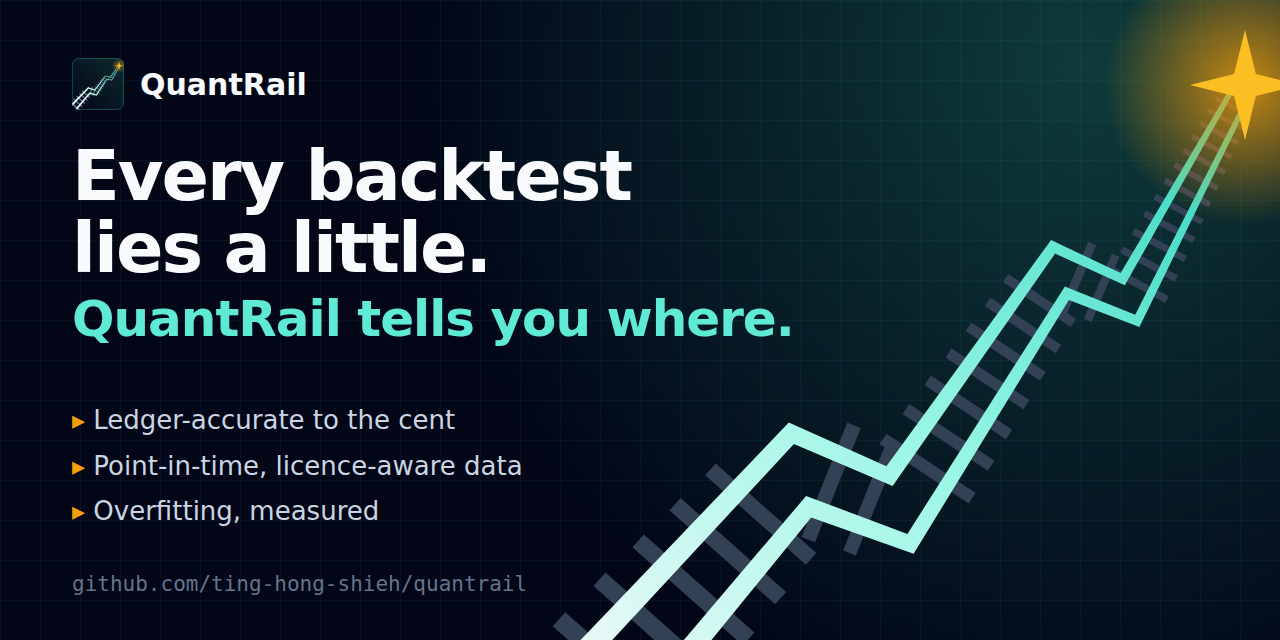
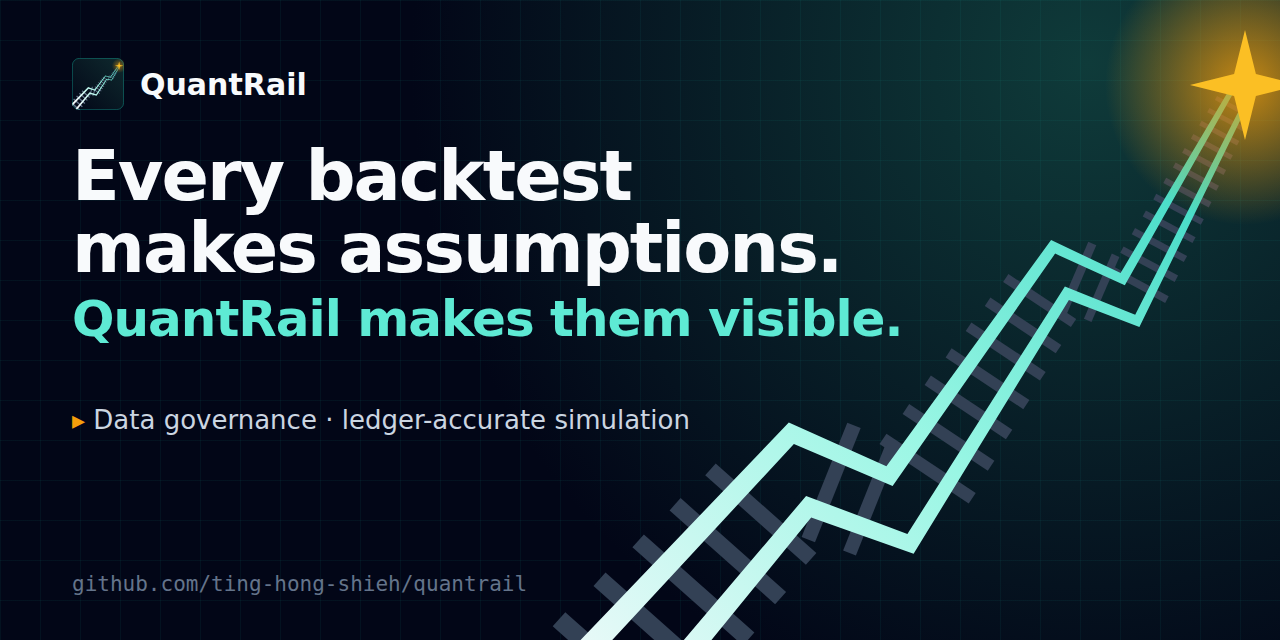
docs: calibrate claims to current implementation

diff --git a/assets/social-preview.html b/assets/social-preview.html
@@ -1,0 +1,65 @@
+<!doctype html><html><head><meta charset="utf-8"><style>
+html,body{margin:0}
+body{width:1280px;height:640px;overflow:hidden;position:relative;font-family:Inter,Helvetica,Arial,sans-serif;
+  background:radial-gradient(circle at 85% 10%,#0F3B3A 0,#020617 55%);color:#F8FAFC}
+.grid{position:absolute;inset:0;background-image:linear-gradient(#14B8A611 1px,transparent 1px),
+  linear-gradient(90deg,#14B8A611 1px,transparent 1px);background-size:40px 40px}
+.track{position:absolute;inset:0;width:1280px;height:640px}
+.brand{position:absolute;left:72px;top:58px;display:flex;align-items:center;gap:16px;font-size:30px;font-weight:800}
+.brand img{width:52px}
+h1{position:absolute;left:72px;top:140px;margin:0;font-size:70px;line-height:1.03;letter-spacing:-2px;font-weight:900}
+h1 span{display:block;margin-top:10px;color:#5EEAD4;font-size:50px;letter-spacing:-1px}
+ul{position:absolute;left:72px;top:398px;margin:0;padding:0;list-style:none;font-size:26px;line-height:1.75;color:#CBD5E1}
+li::before{content:"▸ ";color:#F59E0B}
+.url{position:absolute;left:72px;bottom:44px;font-size:21px;color:#64748B;font-family:'DejaVu Sans Mono',monospace}
+</style></head><body>
+<div class="grid"></div>
+<svg class="track" viewBox="0 0 128 64" preserveAspectRatio="xMidYMid slice"
+     xmlns="http://www.w3.org/2000/svg">
+  <defs>
+    <linearGradient id="steel" x1="56" y1="74" x2="124" y2="8" gradientUnits="userSpaceOnUse">
+      <stop offset="0" stop-color="#F8FAFC"/><stop offset="0.5" stop-color="#99F6E4"/>
+      <stop offset="1" stop-color="#2DD4BF"/></linearGradient>
+    <radialGradient id="glow" cx="124.5" cy="8.5" r="14" gradientUnits="userSpaceOnUse">
+      <stop offset="0" stop-color="#F59E0B" stop-opacity="0.8"/><stop offset="1" stop-color="#F59E0B" stop-opacity="0"/>
+    </radialGradient>
+  </defs>
+  <g fill="#334155"><path d="M64.99 76.65 L52.31 65.38 L51.00 66.87 L63.67 78.13 Z"/>
+<path d="M68.63 71.98 L56.53 61.22 L55.27 62.63 L67.37 73.40 Z"/>
+<path d="M72.11 67.52 L60.55 57.24 L59.35 58.59 L70.91 68.87 Z"/>
+<path d="M75.44 63.26 L64.39 53.44 L63.24 54.73 L74.29 64.55 Z"/>
+<path d="M78.61 59.19 L68.06 49.81 L66.96 51.04 L77.51 60.42 Z"/>
+<path d="M81.64 55.30 L71.57 46.34 L70.52 47.52 L80.59 56.48 Z"/>
+<path d="M81.50 54.23 L86.07 42.80 L84.73 42.27 L80.16 53.69 Z"/>
+<path d="M85.59 55.56 L89.95 44.65 L88.67 44.14 L84.31 55.05 Z"/>
+<path d="M97.57 49.31 L88.65 43.37 L87.95 44.41 L96.87 50.36 Z"/>
+<path d="M99.44 46.07 L90.92 40.39 L90.26 41.39 L98.78 47.07 Z"/>
+<path d="M101.23 42.97 L93.09 37.55 L92.46 38.50 L100.59 43.93 Z"/>
+<path d="M102.94 40.01 L95.16 34.83 L94.56 35.74 L102.33 40.92 Z"/>
+<path d="M104.57 37.19 L97.14 32.24 L96.57 33.11 L103.99 38.06 Z"/>
+<path d="M106.13 34.49 L99.04 29.76 L98.48 30.59 L105.57 35.32 Z"/>
+<path d="M107.62 31.91 L100.84 27.40 L100.31 28.19 L107.09 32.71 Z"/>
+<path d="M106.70 31.34 L109.63 24.52 L108.83 24.17 L105.90 31.00 Z"/>
+<path d="M109.15 32.21 L111.94 25.69 L111.18 25.36 L108.39 31.88 Z"/>
+<path d="M116.87 29.62 L111.17 26.56 L110.81 27.23 L116.52 30.29 Z"/>
+<path d="M117.81 27.56 L112.36 24.64 L112.02 25.28 L117.47 28.20 Z"/>
+<path d="M118.71 25.59 L113.50 22.81 L113.17 23.42 L118.38 26.20 Z"/>
+<path d="M119.56 23.72 L114.59 21.06 L114.27 21.64 L119.25 24.30 Z"/>
+<path d="M120.38 21.92 L115.62 19.38 L115.33 19.94 L120.08 22.48 Z"/>
+<path d="M121.15 20.21 L116.62 17.78 L116.33 18.31 L120.87 20.74 Z"/>
+<path d="M121.90 18.57 L117.56 16.26 L117.29 16.76 L121.63 19.08 Z"/>
+<path d="M122.61 17.01 L118.47 14.80 L118.21 15.28 L122.35 17.50 Z"/>
+<path d="M123.29 15.52 L119.33 13.40 L119.09 13.87 L123.04 15.98 Z"/>
+<path d="M123.94 14.09 L120.16 12.07 L119.92 12.52 L123.70 14.54 Z"/>
+<path d="M124.56 12.73 L120.95 10.80 L120.72 11.22 L124.33 13.15 Z"/>
+<path d="M125.15 11.43 L121.70 9.59 L121.49 9.99 L124.93 11.83 Z"/></g>
+  <g fill="url(#steel)"><path d="M51.94 70.39 L78.88 42.25 L88.64 46.62 L105.11 24.00 L112.06 27.31 L123.51 7.97 L123.96 8.21 L112.48 28.53 L105.51 25.36 L89.26 48.61 L79.39 44.40 L53.78 72.03 Z"/>
+<path d="M60.06 77.61 L81.12 51.75 L91.36 55.38 L106.89 30.00 L113.94 32.69 L125.49 9.03 L125.04 8.79 L113.52 31.47 L106.49 28.64 L90.74 53.39 L80.61 49.60 L58.22 75.97 Z"/></g>
+  <circle cx="124.5" cy="8.5" r="14" fill="url(#glow)"/>
+  <path d="M124.50 3.00 L125.59 7.41 L130.00 8.50 L125.59 9.59 L124.50 14.00 L123.41 9.59 L119.00 8.50 L123.41 7.41 Z" fill="#FBBF24"/>
+</svg>
+<div class="brand"><img src="brand/quantrail-badge.svg">QuantRail</div>
+<h1>Every backtest<br>makes assumptions.<span>QuantRail makes them visible.</span></h1>
+<ul><li>Data governance · ledger-accurate simulation</li></ul>
+<div class="url">github.com/ting-hong-shieh/quantrail</div>
+</body></html>

diff --git a/scripts/render_architecture.py b/scripts/render_architecture.py
@@ -1,9 +1,9 @@
 """Animated architecture flow: python scripts/render_architecture.py
 
 The diagram keeps the information of a flowchart (what flows where, what supports the
-engine, what judges the result); the animation encodes the same story. A data packet
+engine, which auxiliary tools accompany the result); the animation encodes the same story. A data packet
 rides the rails from your data to the result, passing behind each box as it is
-processed; each box lights up as the packet reaches it, the supporting arrows light when it reaches the engine, and the judging
+processed; each box lights up as the packet reaches it, the supporting arrows light when it reaches the engine, and the auxiliary-tool
 arrows light when it reaches the result. Disabled under prefers-reduced-motion.
 """
 
@@ -93,8 +93,8 @@ def render() -> str:
   </g>''')
     parts.append(arrow(480, row2, 545, ROW_Y + BOX_H + 6, t_engine))
     parts.append(arrow(673, row2, 625, ROW_Y + BOX_H + 6, t_engine))
-    # Judges of the result.
-    parts.append(box(786, row2, 150, BOX_H, "research", "trial registry", "contracts · holdout",
+    # Auxiliary research tools.
+    parts.append(box(786, row2, 150, BOX_H, "research", "trial registry", "auxiliary tool",
                      "#99F6E4", delay=t_result))
     parts.append(box(786, row2 + 104, 150, BOX_H, "stats", "metrics · bootstrap", "Holm · DSR · PBO",
                      "#99F6E4", delay=t_result))
@@ -107,7 +107,7 @@ def render() -> str:
   <text class="s" x="96" y="{core_y + 27}">instruments · Decimal quantities · money per currency · provenance · trust flags</text>''')
     travel_px = X1 - X0
     return f'''<svg xmlns="http://www.w3.org/2000/svg" width="{W}" height="{H}" viewBox="0 0 {W} {H}" role="img"
-     aria-label="QuantRail architecture: your data flows through data governance and the engine into a result with a trust report; accounting and market modules support the engine; research and statistics judge the result; core types underlie everything">
+     aria-label="QuantRail architecture: your data flows through data governance and the engine into a result with a trust report; accounting and market modules support the engine; research and statistics provide auxiliary tools for recording trials and analysing results; core types underlie everything">
   <title>QuantRail architecture</title>
   <defs>
     <linearGradient id="bg" x1="0" y1="0" x2="{W}" y2="{H}" gradientUnits="userSpaceOnUse">

diff --git a/scripts/render_social.py b/scripts/render_social.py
@@ -62,8 +62,8 @@ li::before{{content:"▸ ";color:#F59E0B}}
 <div class="grid"></div>
 {track_svg()}
 <div class="brand"><img src="brand/quantrail-badge.svg">QuantRail</div>
-<h1>Every backtest<br>lies a little.<span>QuantRail tells you where.</span></h1>
-<ul><li>Ledger-accurate to the cent</li><li>Point-in-time, licence-aware data</li><li>Overfitting, measured</li></ul>
+<h1>Every backtest<br>makes assumptions.<span>QuantRail makes them visible.</span></h1>
+<ul><li>Data governance · ledger-accurate simulation</li></ul>
 <div class="url">github.com/ting-hong-shieh/quantrail</div>
 </body></html>'''
 

diff --git a/src/quantrail/research/__init__.py b/src/quantrail/research/__init__.py
@@ -1,1 +1,4 @@
-"""Research discipline: trial registry."""
+"""Auxiliary research tools: trial registry.
+
+Research design, rule freezing and out-of-sample policy belong to the user's workflow.
+"""

diff --git a/README.md b/README.md
@@ -4,8 +4,8 @@
 
 <h1 align="center">QuantRail</h1>
 
-<p align="center"><b>Every backtest lies a little. QuantRail tells you where.</b><br>
-Data governance · ledger-accurate simulation · research discipline</p>
+<p align="center"><b>Every backtest makes assumptions. QuantRail makes them visible.</b><br>
+Data governance · ledger-accurate simulation</p>
 
 <p align="center">
   <a href="https://pypi.org/project/quantrail/"><img src="https://img.shields.io/pypi/v/quantrail?color=0F766E&logo=pypi&logoColor=white" alt="PyPI"></a>
@@ -24,26 +24,27 @@ Data governance · ledger-accurate simulation · research discipline</p>
 </p>
 
 <p align="center">
-  <img src="https://raw.githubusercontent.com/ting-hong-shieh/quantrail/main/assets/trust-report.svg" width="820" alt="A QuantRail result opens with a trust report listing everything it could not verify">
+  <img src="https://raw.githubusercontent.com/ting-hong-shieh/quantrail/main/assets/trust-report.svg" width="820" alt="A QuantRail result opens with a trust report listing recorded caveats">
 </p>
 
 > **Status:** early development (v0.x); APIs will change. Nothing here is investment advice.
 
 ## Why QuantRail?
 
-Most backtests are easy to make look good and hard to trust:
+A backtest can be hard to assess when:
 
-- positions are multiplied by adjusted returns, so dividends, splits and settlement are approximated or double-counted;
-- nobody records which data version, licence or availability time a result depended on;
+- positions are multiplied by adjusted returns, so dividends, splits and settlement may be approximated or double-counted;
+- the data version, licence or availability time a result depended on is not recorded;
 - the many variants tried before the "winner" are forgotten, so overfitting goes unmeasured.
 
-QuantRail is built around three pillars:
+QuantRail is built around two pillars:
 
 | Pillar | What you get |
 | --- | --- |
-| **Data governance** | Versioned, hashed datasets with manifests: source, licence, price basis, point-in-time availability, quality checks. "Unknown" is allowed and reported, never hidden. |
-| **Ledger-accurate simulation** | Raw prices plus explicit events (fees, taxes, dividends, splits, settlement). Every day's change in wealth must reconcile. |
-| **Research discipline** | Append-only trial registry, frozen experiment contracts, sealed holdout data, and built-in paired block bootstrap, Holm correction, deflated Sharpe ratio and probability of backtest overfitting. |
+| **Data governance** | Versioned, hashed datasets with manifests: source, licence, price basis, declared availability and quality checks. Availability is declaration text; rows are not filtered by when they became available. "Unknown" is allowed and reported, never hidden. |
+| **Ledger-accurate simulation** | Raw prices plus explicit events (fees, taxes, dividends, splits, settlement). The engine records a daily NAV identity residual; it does not reject a run when the residual exceeds a tolerance. |
+
+**Also included:** an append-only trial registry, paired block bootstrap, Holm correction, deflated Sharpe ratio and probability of backtest overfitting (PBO). Research design, rule freezing and out-of-sample policy are the responsibility of your own research workflow; QuantRail does not freeze experiment contracts or seal holdout data.
 
 ## Quickstart
 
@@ -70,7 +71,7 @@ result = qr.backtest(data, instrument=asset, capital=10_000,
 print(result.report())
 ```
 
-The report starts with what QuantRail could not verify, because nothing was declared:
+The report starts with caveats about undeclared metadata and assumptions used by the backtest:
 
 ```text
 Trust report:
@@ -84,19 +85,19 @@ Trust report:
   [i] CALENDAR_FROM_PRICES: Sessions are inferred from price dates; ...
 ```
 
-Declare provenance (`qr.Provenance`), price basis and availability (`qr.Declaration`), add open prices and corporate actions, and the caveats disappear one by one.
+Provenance (`qr.Provenance`), price basis and availability (`qr.Declaration`) affect the declaration-related flags: their `trust()` methods inspect what you declare, without checking those claims against the data. Other flags reflect the supplied data and execution assumptions; for example, adding open prices removes the next-close proxy caveat, while the inferred-calendar caveat remains.
 
-## Verified to the cent
+## Reference implementation parity
 
-The engine and the Taiwan equity module were ported from a private research implementation and must reproduce it exactly. On eight years of a Taiwan ETF (1,953 sessions, 16 cash dividends, one 4-for-1 split and a trading suspension), QuantRail matches the daily net asset value of five reference runs with **zero difference**: buy-and-hold, and three rules that sell (87 sells with securities transaction tax, including runs with a no-trade band and with doubled slippage). Units, cash, receivables, payables, commission, tax and slippage all match.
+The engine and the Taiwan equity module were ported from a private research implementation. In the original porting comparison, on eight years of a Taiwan ETF (1,953 sessions, 16 cash dividends, one 4-for-1 split and a trading suspension), QuantRail matched the daily net asset value of five reference runs with **zero difference**: buy-and-hold, and three rules that sell (87 sells with securities transaction tax, including runs with a no-trade band and with doubled slippage). Units, cash, receivables, payables, commission, tax and slippage were also compared manually at that time; the automated parity test asserts daily NAV only. This comparison checks that the port reproduces the reference, not that the market model is correct.
 
-That reference was itself checked independently: its buy-and-hold ledger was reconciled against a total-return index, with every difference explained by cash drag, costs and timing, and against a second data source. The data is not distributed; [`tests/test_reference_parity.py`](https://github.com/ting-hong-shieh/quantrail/blob/main/tests/test_reference_parity.py) reruns the comparison when you point it at your own copy.
+That reference was itself checked independently: its buy-and-hold ledger was reconciled against a total-return index, with every difference explained by cash drag, costs and timing, and against a second data source. The data is not distributed; [`tests/test_reference_parity.py`](https://github.com/ting-hong-shieh/quantrail/blob/main/tests/test_reference_parity.py) reruns the daily NAV comparison when you point it at your own copy.
 
 ## Markets
 
 | Module | Status | Covered | Not yet |
 | --- | --- | --- | --- |
-| `markets.tw_equity`: Taiwan equities and ETFs | Beta | T+2 settlement, commission with minimum fee, securities transaction tax as a sourced, effective-dated rule, cash dividends, splits, odd lots and board lots | Daily price limits, stock dividends ([#15](https://github.com/ting-hong-shieh/quantrail/issues/15)) |
+| `markets.tw_equity`: Taiwan equities and ETFs | Pre-alpha | T+2 settlement, commission with minimum fee, securities transaction tax as a sourced, effective-dated rule, cash dividends, splits, odd lots and board lots | Daily price limits, stock dividends ([#15](https://github.com/ting-hong-shieh/quantrail/issues/15)) |
 | `markets.generic`: any market | Available | Proportional commission with minimum, sell tax | Market-specific rules |
 | Crypto | Planned ([#5](https://github.com/ting-hong-shieh/quantrail/issues/5)) | | Spot, then perpetuals |
 
@@ -105,7 +106,7 @@ QuantRail **ships no market data**. You bring your own, or fetch it with your ow
 ## Architecture
 
 <p align="center">
-  <img src="https://raw.githubusercontent.com/ting-hong-shieh/quantrail/main/assets/architecture.svg" width="900" alt="Animated flow: your data passes through data governance and the engine into a result with a trust report; accounting and market modules light up as they support the engine, research and stats light up as they judge the result; core types underlie everything">
+  <img src="https://raw.githubusercontent.com/ting-hong-shieh/quantrail/main/assets/architecture.svg" width="900" alt="Animated flow: your data passes through data governance and the engine into a result with a trust report; accounting and market modules light up as they support the engine, research and stats light up as auxiliary tools for recording trials and analysing results; core types underlie everything">
 </p>
 
 Read the [architecture](https://github.com/ting-hong-shieh/quantrail/blob/main/docs/architecture.md) and the [decision records](https://github.com/ting-hong-shieh/quantrail/tree/main/docs/adr/) for the reasoning.

diff --git a/README.zh-TW.md b/README.zh-TW.md
@@ -4,8 +4,8 @@
 
 <h1 align="center">QuantRail</h1>
 
-<p align="center"><b>每個回測都會說點小謊，QuantRail 告訴你謊在哪裡。</b><br>
-資料治理 · 帳務正確的模擬 · 研究紀律</p>
+<p align="center"><b>每個回測都有假設，QuantRail 把它們攤開。</b><br>
+Data governance · ledger-accurate simulation</p>
 
 <p align="center">
   <a href="https://pypi.org/project/quantrail/"><img src="https://img.shields.io/pypi/v/quantrail?color=0F766E&logo=pypi&logoColor=white" alt="PyPI"></a>
@@ -24,7 +24,7 @@
 </p>
 
 <p align="center">
-  <img src="https://raw.githubusercontent.com/ting-hong-shieh/quantrail/main/assets/trust-report.svg" width="820" alt="QuantRail 的結果會先列出信任報告，說明所有無法確認的事項">
+  <img src="https://raw.githubusercontent.com/ting-hong-shieh/quantrail/main/assets/trust-report.svg" width="820" alt="QuantRail 的結果會先列出信任報告，說明已記錄的注意事項">
 </p>
 
 > **狀態：** 早期開發（v0.x），API 還會變動。本專案內容不構成投資建議。
@@ -33,19 +33,20 @@
 
 ## 為什麼需要 QuantRail？
 
-大多數回測很容易做得好看，卻很難讓人相信：
+遇到以下情況，回測結果就難以評估：
 
-- 用「部位 × 還原報酬」計算財富，配息、分割、交割只是近似，甚至重複計算；
-- 沒有人記錄結果用的是哪個資料版本、什麼授權、資料在什麼時間點才拿得到；
+- 用「部位 × 還原報酬」計算財富，配息、分割、交割可能只是近似，甚至重複計算；
+- 沒有記錄結果用的是哪個資料版本、什麼授權、資料在什麼時間點才拿得到；
 - 找到「贏家」之前試過的許多變體都被遺忘，過度擬合的程度無從衡量。
 
-QuantRail 建立在三個支柱上：
+QuantRail 建立在兩個支柱上：
 
 | 支柱 | 內容 |
 | --- | --- |
-| **資料治理** | 有版本、有 hash 的資料集，manifest 記錄來源、授權、價格種類、時間點可得性與品質檢查。「不知道」是允許的，但一定會被報告，不會被隱藏。 |
-| **帳務正確的模擬** | 原始價格加上明確的事件（手續費、稅、配息、分割、交割）。每天的財富變動都必須對得上。 |
-| **研究紀律** | 只能追加的 trial 登記、凍結的實驗契約、封存的樣本外資料，以及內建的配對區塊 bootstrap、Holm 校正、Deflated Sharpe Ratio 與回測過度擬合機率（PBO）。 |
+| **資料治理** | 有版本、有 hash 的資料集，manifest 記錄來源、授權、價格種類、宣告的可得時間與品質檢查。可得時間目前只是宣告文字，不會依資料何時可得逐筆過濾。「不知道」是允許的，但一定會被報告，不會被隱藏。 |
+| **帳務正確的模擬** | 原始價格加上明確的事件（手續費、稅、配息、分割、交割）。引擎記錄每日 NAV 恆等式的殘差；殘差超出容差時，不會拒絕執行。 |
+
+**另附輔助工具（Also included）：** 只能追加的 trial 登記、配對區塊 bootstrap、Holm 校正、Deflated Sharpe Ratio 與回測過度擬合機率（PBO）。研究設計、規則凍結與樣本外政策由你自己的研究流程負責；QuantRail 不會凍結實驗契約或封存樣本外資料。
 
 ## 快速開始
 
@@ -72,7 +73,7 @@ result = qr.backtest(data, instrument=asset, capital=10_000,
 print(result.report())
 ```
 
-因為什麼都沒有宣告，報告會先列出 QuantRail 無法確認的事項：
+報告會先列出未宣告的資料資訊，以及回測使用的假設：
 
 ```text
 Trust report:
@@ -86,19 +87,19 @@ Trust report:
   [i] CALENDAR_FROM_PRICES: Sessions are inferred from price dates; ...
 ```
 
-宣告資料來源與授權（`qr.Provenance`）、價格種類與可得時間（`qr.Declaration`），再補上開盤價和配息分割事件，這些警告就會一項一項消失。
+資料來源與授權（`qr.Provenance`）、價格種類與可得時間（`qr.Declaration`）會影響宣告相關的旗標：它們的 `trust()` 方法只看你宣告了什麼，不會用資料核對宣告是否屬實。其他旗標反映輸入資料與成交假設；例如，補上開盤價會移除以次日收盤價成交的警告，但推定交易日曆的提醒仍會保留。
 
-## 逐分驗證
+## 與參考實作的一致性
 
-引擎與台股模組移植自一個私人研究實作，並且必須完全重現它。以一檔台灣 ETF 八年的資料（1,953 個交易日、16 次現金配息、一次 1 拆 4 的分割與一段停止交易），QuantRail 與五組參考執行的每日淨值**差距為零**：包含買進持有，以及三條會賣出的規則（87 筆含證交稅的賣出，其中有使用不交易區間的、也有滑價加倍的）。持股、現金、應收、應付、手續費、稅與滑價也全部一致。
+引擎與台股模組移植自一個私人研究實作。在當時的移植比對中，以一檔台灣 ETF 八年的資料（1,953 個交易日、16 次現金配息、一次 1 拆 4 的分割與一段停止交易），QuantRail 與五組參考執行的每日淨值**差距為零**：包含買進持有，以及三條會賣出的規則（87 筆含證交稅的賣出，其中有使用不交易區間的、也有滑價加倍的）。持股、現金、應收、應付、手續費、稅與滑價也在當時手動比對過；自動化 parity 測試只斷言每日 NAV。這個比對檢查移植是否重現參考實作，不代表市場模型正確。
 
-那個參考實作本身經過獨立核對：它的買進持有帳本與總報酬指數核對過，差距全部可由現金拖累、成本與時間對齊解釋，也與第二個資料來源核對過。資料不會散布；只要指向你自己的資料，[`tests/test_reference_parity.py`](https://github.com/ting-hong-shieh/quantrail/blob/main/tests/test_reference_parity.py) 就會重跑這個比對。
+那個參考實作本身經過獨立核對：它的買進持有帳本與總報酬指數核對過，差距全部可由現金拖累、成本與時間對齊解釋，也與第二個資料來源核對過。資料不會散布；只要指向你自己的資料，[`tests/test_reference_parity.py`](https://github.com/ting-hong-shieh/quantrail/blob/main/tests/test_reference_parity.py) 就會重跑每日 NAV 的比對。
 
 ## 市場
 
 | 模組 | 狀態 | 已支援 | 尚未支援 |
 | --- | --- | --- | --- |
-| `markets.tw_equity`：台股與 ETF | Beta | T+2 交割、含最低費用的手續費、有來源與生效區間的證交稅、現金股利、分割、零股與整張 | 漲跌停、股票股利（[#15](https://github.com/ting-hong-shieh/quantrail/issues/15)） |
+| `markets.tw_equity`：台股與 ETF | Pre-alpha | T+2 交割、含最低費用的手續費、有來源與生效區間的證交稅、現金股利、分割、零股與整張 | 漲跌停、股票股利（[#15](https://github.com/ting-hong-shieh/quantrail/issues/15)） |
 | `markets.generic`：任何市場 | 可用 | 比例手續費（含最低費用）、賣出稅 | 市場專屬規則 |
 | 加密貨幣 | 規劃中（[#5](https://github.com/ting-hong-shieh/quantrail/issues/5)） | | 先做現貨，再做永續合約 |
 
@@ -107,7 +108,7 @@ QuantRail **不附任何市場資料**。資料由你自己提供，或用你自
 ## 架構
 
 <p align="center">
-  <img src="https://raw.githubusercontent.com/ting-hong-shieh/quantrail/main/assets/architecture.svg" width="900" alt="會動的流程圖：你的資料經過資料治理與引擎，成為附信任報告的結果；帳務與市場模組在支撐引擎時亮起，研究與統計在檢驗結果時亮起；核心型別是所有層的基礎">
+  <img src="https://raw.githubusercontent.com/ting-hong-shieh/quantrail/main/assets/architecture.svg" width="900" alt="會動的流程圖：你的資料經過資料治理與引擎，成為附信任報告的結果；帳務與市場模組在支撐引擎時亮起，研究與統計作為記錄 trial 與分析結果的輔助工具亮起；核心型別是所有層的基礎">
 </p>
 
 設計理由見[架構文件](https://github.com/ting-hong-shieh/quantrail/blob/main/docs/zh-TW/architecture.md)與[架構決策紀錄](https://github.com/ting-hong-shieh/quantrail/tree/main/docs/adr/)。

diff --git a/docs/architecture.md b/docs/architecture.md
@@ -4,11 +4,10 @@ Status: draft v0.1 (2026-10-05). Decisions referenced here are recorded as ADRs 
 
 ## 1. What QuantRail is
 
-QuantRail is a Python library for **quantitative research you can trust**. It gives you three things that most backtesting frameworks leave to you:
+QuantRail is a Python library for **data governance and ledger-accurate simulation**. It focuses on two things:
 
-1. **Data governance.** Every dataset is a versioned, hashed snapshot with a manifest that records where it came from, under what terms, what kind of prices it contains and when each value would have been known.
-2. **Ledger-accurate simulation.** Wealth is computed by a ledger from raw prices and explicit events (fills, fees, taxes, dividends, splits, funding, settlement), not by multiplying positions by returns. Every day's change in net asset value must be explained to the cent.
-3. **Research discipline.** Trials are registered before they run and are never deleted; experiment contracts are frozen before results are seen; holdout data is sealed; and the statistics (paired block bootstrap, multiple-comparison correction, deflated Sharpe ratio, probability of backtest overfitting) are built in.
+1. **Data governance.** Every dataset is a versioned, hashed snapshot with a manifest that records where it came from, under what terms, what kind of prices it contains and the declared availability rule. That rule is text; it does not filter records by availability time.
+2. **Ledger-accurate simulation.** Wealth is computed by a ledger from raw prices and explicit events (fills, fees, taxes, dividends, splits, funding, settlement), not by multiplying positions by returns. The engine records a daily NAV identity residual without enforcing a tolerance.
 
 The goal is that a result produced with QuantRail states, on its face, how far it can be trusted.
 
@@ -24,9 +23,9 @@ The goal is that a result produced with QuantRail states, on its face, how far i
 | --- | --- |
 | One source of accounting truth | Backtests and any future execution share the same ledger and cost contracts. Markets differ by module, not by forked engines. |
 | Raw prices for wealth, adjusted series only for signals | Dividends and splits are events in the ledger. A total-return index may drive signals but never values a position. |
-| Point in time | Each record carries the time it became available. Signals may only read data available at decision time; tests check that truncating the future leaves past signals unchanged. |
+| Point in time | Availability is currently a dataset declaration; records are not filtered by availability time. The research workflow is responsible for restricting inputs to information available at decision time. |
 | "Unknown" is a value, not an error | Provenance, licence, price basis and availability may be `unknown`. They are recorded and surface as warnings in a trust report; they do not block private research ([ADR 0002](adr/0002-unknown-provenance-is-a-value.md)). |
-| Explicit versions only | Datasets and contracts are loaded by explicit version and verified by hash. There is no `latest`. |
+| Explicit versions only | Datasets are loaded by explicit version and verified by hash. There is no `latest`. |
 | Market-agnostic core | Quantities are `Decimal` with an instrument-defined step; cash is held per currency. Nothing in the core assumes a particular exchange ([ADR 0003](adr/0003-market-agnostic-core.md)). |
 | Fail closed, explain why | When the evidence does not support an action (no valid quote, unaffordable order, unknown rule), the result is a refusal with a reason code, never an invented value. |
 
@@ -39,7 +38,7 @@ quantrail
 ├── accounting    Multi-currency ledger, positions, settlement, corporate events
 ├── markets       Market modules: tw_equity (first), crypto (next)
 ├── engine        Daily simulation loop: decisions -> orders -> fills -> ledger
-├── research      Trial registry, frozen contracts, holdout sealing
+├── research      Trial registry (auxiliary tool)
 ├── stats         Metrics, paired block bootstrap, Holm, DSR, PBO
 └── report        Trust report and result summaries
 ```
@@ -90,7 +89,7 @@ The engine runs one loop per session:
 2. Turn pending targets into orders; size them with the market's constraints and the cash actually available (receivables are not spendable).
 3. Fill at the modelled price; book fees and taxes; schedule settlement.
 4. Settle what is due; convert paid dividends into cash.
-5. Value at the close (last valid price on untradable days, flagged) and check the identity
+5. Value at the close (last valid price on untradable days, flagged) and record the residual of the identity
 
    `Δ NAV = overnight P&L + intraday P&L + entitlements − fees − taxes − slippage`.
 
@@ -100,11 +99,11 @@ Untradable sessions produce `NO_FILL` with a reason (`SUSPENDED`, `RAW_PRICE_MIS
 
 The Taiwan equity module must reproduce, day by day, the private implementation it was ported from, on an ETF over eight years with sixteen dividends and one 4-for-1 split. That earlier implementation was itself checked independently: its buy-and-hold ledger was reconciled against a total-return index (every difference explained by cash drag, costs and timing) and against a second data source. Matching it proves the port is faithful; the independent evidence is that reconciliation. The data is not distributed.
 
-## 7. Research discipline
+## 7. Auxiliary research tools
+
+Research design, rule freezing and out-of-sample policy belong to the user's own research workflow. QuantRail does not freeze experiment contracts or seal holdout data.
 
 - **Trial registry.** Append-only JSONL. A trial is `REGISTERED` before it runs and gets exactly one terminal status (`COMPLETED`, `FAILED`, `BLOCKED`). Each records configuration hash, data manifest hash, code commit, dirty flag and a source fingerprint.
-- **Frozen contracts.** A study's rules and evaluation criteria live in a contract file. Runs refuse a contract that is not frozen. Later clarifications are recorded as resolutions with the state of knowledge at decision time.
-- **Holdout sealing.** Data after the development period is removed before strategies see it; unsealing is an explicit, recorded option.
 - **Statistics.** Paired circular block bootstrap with shared indices, Holm correction across challengers, deflated Sharpe ratio, CSCV probability of backtest overfitting, and BRAIN-style summary metrics. None of these is presented as a probability of future profit.
 
 ## 8. Public and private boundary
@@ -121,7 +120,7 @@ The Taiwan equity module must reproduce, day by day, the private implementation 
 | --- | --- |
 | M0 Foundation | Licence, contribution rules (DCO), CI, architecture and ADRs |
 | M1 Core and data governance | `core` types, provenance and trust flags, datasets, `ingest()` |
-| M2 Research discipline | Trial registry, metrics, inference |
+| M2 Auxiliary research tools | Trial registry, metrics, inference |
 | M3 Accounting and Taiwan equities | Multi-currency ledger, engine, `tw_equity` module, acceptance test |
 | M4 Crypto | Spot first (fractional quantities, maker/taker fees, 24/7 calendar), then perpetuals (funding, margin) |
 | M5 Examples | End-to-end tutorials on openly licensed data, in English and Traditional Chinese |

diff --git a/CHANGELOG.md b/CHANGELOG.md
@@ -6,6 +6,12 @@ All notable changes to QuantRail are recorded here. The format follows
 
 ## [Unreleased]
 
+### Changed
+
+- Position QuantRail around data governance and ledger-accurate simulation, with a new assumptions-focused tagline. Trial recording and statistical tools remain available as auxiliary tools; research design, rule freezing and out-of-sample policy belong to the user's workflow.
+- Correct the English and Traditional Chinese README and architecture claims about frozen contracts, holdout sealing, NAV residual enforcement, declaration-based trust flags and availability filtering. Distinguish historical manual comparisons from automated daily NAV parity checks, and describe parity as evidence of a faithful port rather than market-model correctness.
+- Align the Taiwan equity module's documented status with pre-alpha and regenerate the social preview and architecture diagram to match the revised wording. These changes update documentation, metadata and image text; simulation, research and statistics behaviour is unchanged.
+
 ## [0.1.1] - 2026-10-06
 
 ### Fixed
